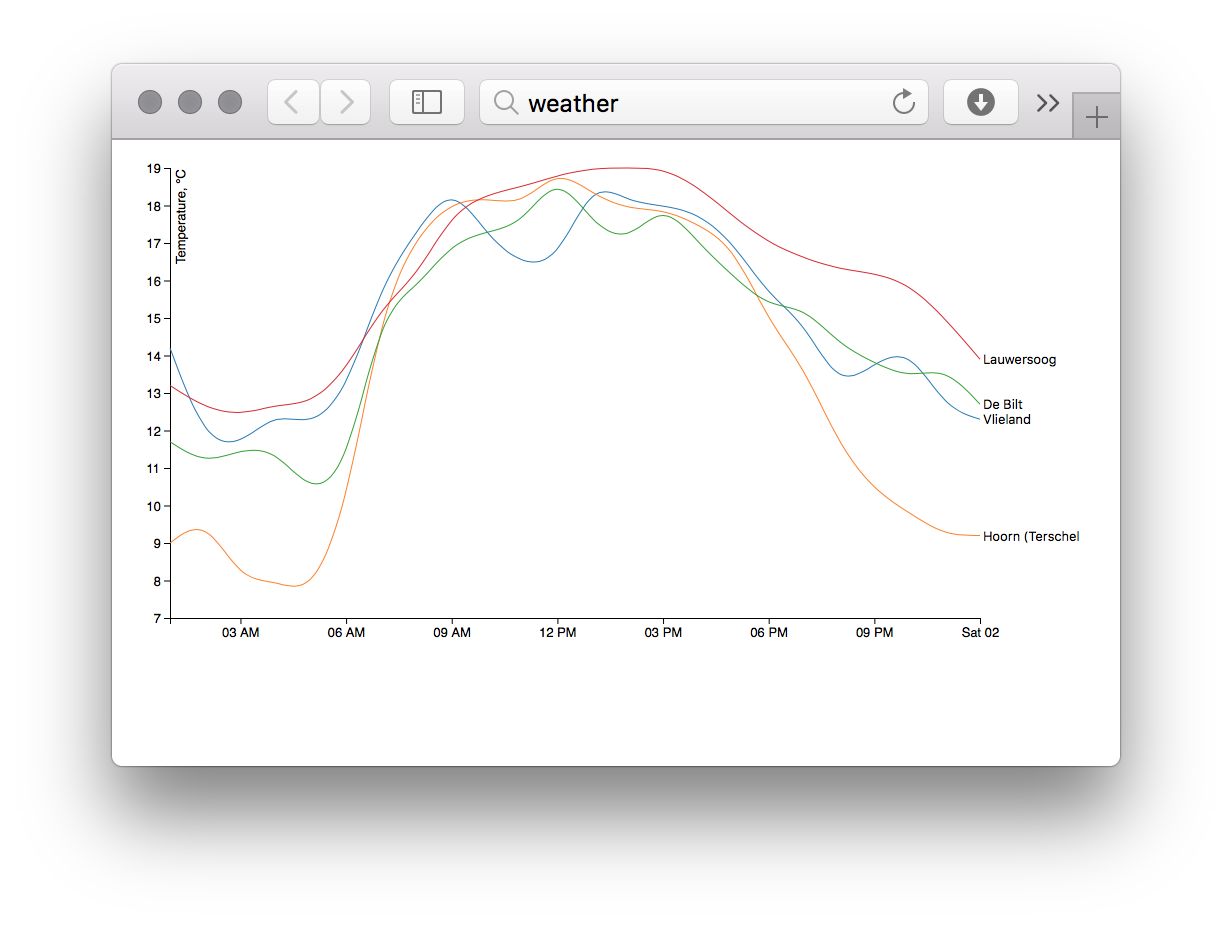
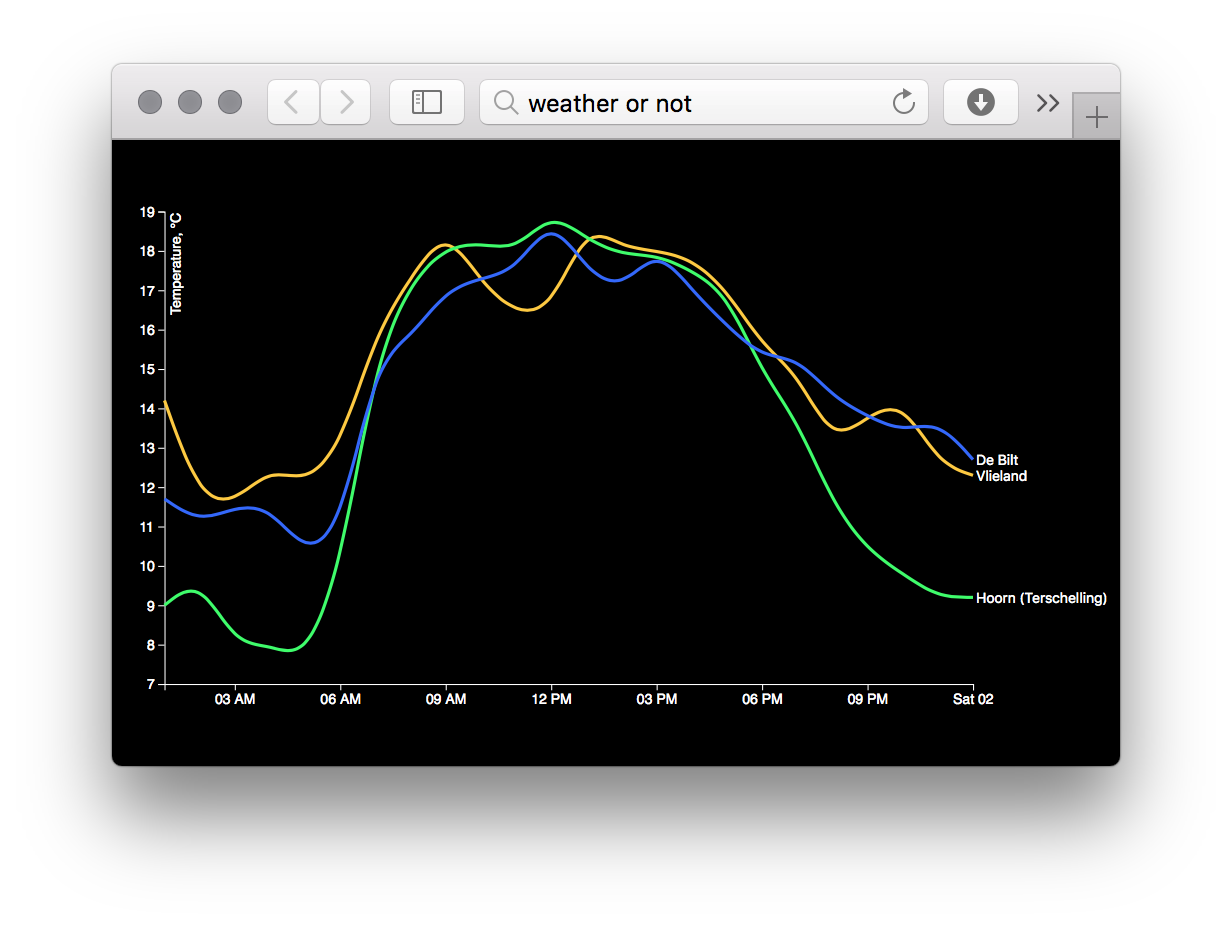
site:class-3: restyle starter code

diff --git a/site/class-3/clean/index.html b/site/class-3/clean/index.html
@@ -6,22 +6,48 @@
 <title>Clean starter code</title>
 <meta content=width=device-width,initial-scale=1 name=viewport>
 <style>
-html { font-family: Roboto, -apple-system, BlinkMacSystemFont, Helvetica Neue, Segoe UI, Oxygen, Ubuntu, Cantarell, Open Sans, sans-serif; }
-.line { fill: none; stroke-width: 1; }
-text { font-size: small; fill: black; }
+html {
+  font-family: Roboto, -apple-system, BlinkMacSystemFont, Helvetica Neue, Segoe UI, Oxygen, Ubuntu, Cantarell, Open Sans, sans-serif;
+  background-color: black;
+  color: white;
+  max-width: 100%;
+}
+
+body {
+  margin: 0;
+}
+
+svg {
+  width: 100vw;
+  height: 100vh;
+}
+
+.line {
+  fill: none;
+  stroke-width: 3;
+}
+
+path, line {
+  stroke: currentcolor;
+}
+
+text {
+  font-size: small;
+  fill: currentcolor;
+}
 </style>
-<svg width=960 height=500></svg>
+<svg width=960 height=500 viewbox="0 0 960 500"></svg>
 <script src=https://d3js.org/d3.v4.min.js></script>
 <script>
 var svg = d3.select('svg');
-var margin = {top: 20, right: 100, bottom: 30, left: 50};
+var margin = {top: 20, right: 140, bottom: 30, left: 50};
 var width = svg.attr('width') - margin.left - margin.right;
 var height = svg.attr('height') - margin.top - margin.bottom;
 var g = svg.append('g').attr('transform', 'translate(' + margin.left + ',' + margin.top + ')');
 
 var x = d3.scaleTime().range([0, width]);
 var y = d3.scaleLinear().range([height, 0]);
-var z = d3.scaleOrdinal(d3.schemeCategory10);
+var z = d3.scaleOrdinal(['#feca2f', '#2ffe63', '#2f63fe', '#fe2fca']);
 
 var knmiCodes = {
   209: 'IJmond',
@@ -79,7 +105,7 @@ var knmiCodes = {
 // You may start editing stuff here (but don’t change the file-name).
 d3
   .text('index.txt')
-  .get(onload);
+  .get(onload)
 
 function onload(err, doc) {
   if (err) throw err;

diff --git a/class-3.md b/class-3.md
@@ -80,7 +80,7 @@ be used in a line chart.
     start and end date to the same date.  Finally, click **Download dataset**,
     and replace `index.txt` in your directory with the file you just downloaded
 *   Open `index.html` in your text editor and add code to clean and transform
-    data (you may start at line 80).  Do not change `index.txt` manually.
+    data (you may start at line 105).  Do not change `index.txt` manually.
     Store the clean data in the variable `places`.
     Once your code creates the correct data, you’ll see a
     [line chart][clean-preview]
